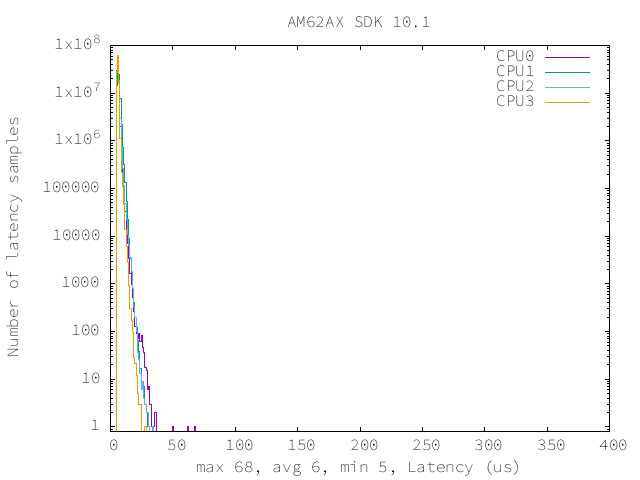
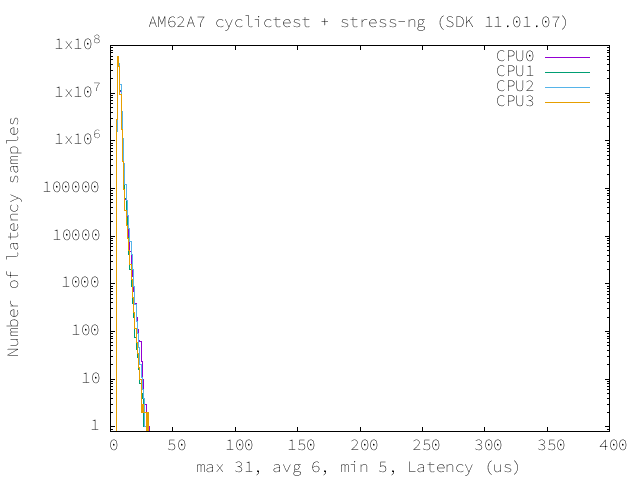
perf(linux): AM62AX: Update PREEMPT_RT perf numbers for 11.1
Update the real time Linux latency numbers for SDK 11.1

diff --git a/source/devices/AM62AX/linux/RT_Linux_Performance_Guide.rst b/source/devices/AM62AX/linux/RT_Linux_Performance_Guide.rst
@@ -1,5 +1,5 @@
 ======================================
- RT-linux 11.00 Performance Guide
+ RT-linux 11.01 Performance Guide
 ======================================
 
 .. rubric::  **Read This First**
@@ -57,14 +57,24 @@ Test commands used for running stress-ng and cyclictest together
    stress-ng --cpu-method=all -c 4 &
    cyclictest -m -Sp80 -D6h -h400 -i200 -M -q
 
-The latencies where observed with this SDK are summarized below:
+The following summarizes the latencies observed using the yocto based
+default SDK image:
+
+.. note::
+
+   A known issue in this SDK release is affecting this benchmark.
+   Using OP-TEEs PRNG drivers rather than the hardware accelerated
+   TRNG drivers restores the context switch latencies to the values you
+   see here.
+
+   More information on switching to the PRNG drivers can be found in the
+   Foundational Components section, here :ref:`building-optee-with-prng`
 
 .. csv-table::
    :header: "Latencies","CPU 0","CPU 1","CPU 2","CPU 3"
 
    "Minimum (us)","5","5","5","5"
-   "Average (us)","5","6","6","5"
-   "Maximum (us)","68","31","34","28"
+   "Average (us)","6","6","6","6"
+   "Maximum (us)","31","29","30","30"
 
 .. image:: img/rt-cpu-method-all-latency-histogram.png
-
